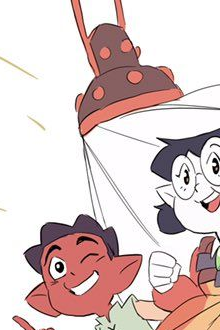
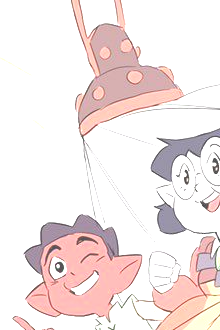
R.O.T.A.T.I.O.N

diff --git a/src/metier/Paint.java b/src/metier/Paint.java
@@ -333,7 +333,7 @@ public class Paint
 
 		return x >= img.getX() && x < img.getX() + img.getImgWidth () && 
 			   y >= img.getY() && y < img.getY() + img.getImgHeight() &&
-			   !(isTrans(img.getImg().getRGB(x, y)) && withTrans);
+			   !(isTrans(img.getImg().getRGB(x- img.getX(), y - img.getY())) && withTrans);
 	}
 
 	public static boolean isTrans(int rgb)
@@ -640,7 +640,6 @@ public class Paint
 			// TODO: handle exception
 		}
 
-		this.lstImages.add(zoneImageObj);
 		this.rotate(zoneImageObj, angle);
 		
 		
@@ -649,7 +648,6 @@ public class Paint
 		{
 			for (int y = yStart; y < yEnd; y++) 
 			{
-				System.out.println(xStart + " " + x + " | " + yEnd + " " + y);
 				ArrayList<Image> lst = this.getClickedImages(x, y);
 				for (Image imgInZone : lst) 
 				{
@@ -664,13 +662,76 @@ public class Paint
 						int localY = y - imgInZone.getY();
 						if (localX >= 0 && localX < bi.getWidth() && localY >= 0 && localY < bi.getHeight()) 
 						{
-							bi.setRGB(localX, localY, 0);  
+							bi.setRGB(localX, localY, 0x00000000);  
 						}
 					}
 				}
 			}
 		}
+
+		this.lstImages.add(zoneImageObj);
 	}
+
+
+	
+	
+	
+	/**
+	 * Rotation d'une zone circulaire.
+	 * @param xCentre Coordonnée x du centre du cercle.
+	 * @param yCentre Coordonnée y du centre du cercle.
+	 * @param radius Rayon du cercle.
+	 * @param angle L'angle de rotation en degrés.
+	 */
+
+	public void rotate(int xCentre, int yCentre, int radius, int angle) 
+	{
+
+		if (angle == 0 || angle == 360) return;
+
+		BufferedImage img = this.getImage();
+
+		// Calcul des limites de la zone circulaire
+		int xStart = Math.max(xCentre - radius, 0);
+		int yStart = Math.max(yCentre - radius, 0);
+		int width = Math.min(radius * 2, img.getWidth() - xStart);
+		int height = Math.min(radius * 2, img.getHeight() - yStart);
+
+		// Créer une image pour contenir la zone circulaire avant rotation
+		BufferedImage zoneImage = img.getSubimage(xStart, yStart, width, height);
+		Image zoneImageObj = new Image(xCentre - radius, yCentre - radius, zoneImage);
+
+		for (int x = xCentre - radius; x < xCentre + radius; x++) 
+		{
+			for (int y = yCentre - radius; y < yCentre + radius; y++) 
+			{
+				if (Math.pow(x - xCentre, 2) + Math.pow(y - yCentre, 2) <= Math.pow(radius, 2)) 
+				{
+					ArrayList<Image> lst = this.getClickedImages(x, y);
+					for (Image imgInZone : lst) {
+						// Si l'image est totalement couverte dans la zone, on l'enlève de la liste
+						if (imgInZone.getX() >= xStart && imgInZone.getX() + imgInZone.getImgWidth () <= xStart + width &&
+							imgInZone.getY() >= yStart && imgInZone.getY() + imgInZone.getImgHeight() <= yStart + height) {
+							this.lstImages.remove(imgInZone);
+						} else {
+							BufferedImage bi = imgInZone.getImg();
+							int localX = x - imgInZone.getX();
+							int localY = y - imgInZone.getY();
+							if (localX >= 0 && localX < bi.getWidth() && localY >= 0 && localY < bi.getHeight()) 
+								bi.setRGB(localX, localY, 0x00000000);  // Effacer le pixel
+						}
+					}
+				} else { 
+					zoneImage.setRGB(x - zoneImageObj.getX(), y - zoneImageObj.getY(), 0x00000000);
+				}
+			}
+		}
+
+		rotate(zoneImageObj, angle);
+
+		this.lstImages.add(zoneImageObj);
+	}
+
 
 	
 
@@ -976,6 +1037,7 @@ public class Paint
 			// p.setLuminosite(img, -50);
 
 			p.setLuminosite(80,120,300,450,80);
+			p.rotate(150,150,50,90);
 
 			ImageIO.write(p.getImage(),"png",new File ("fin.png") );
 
